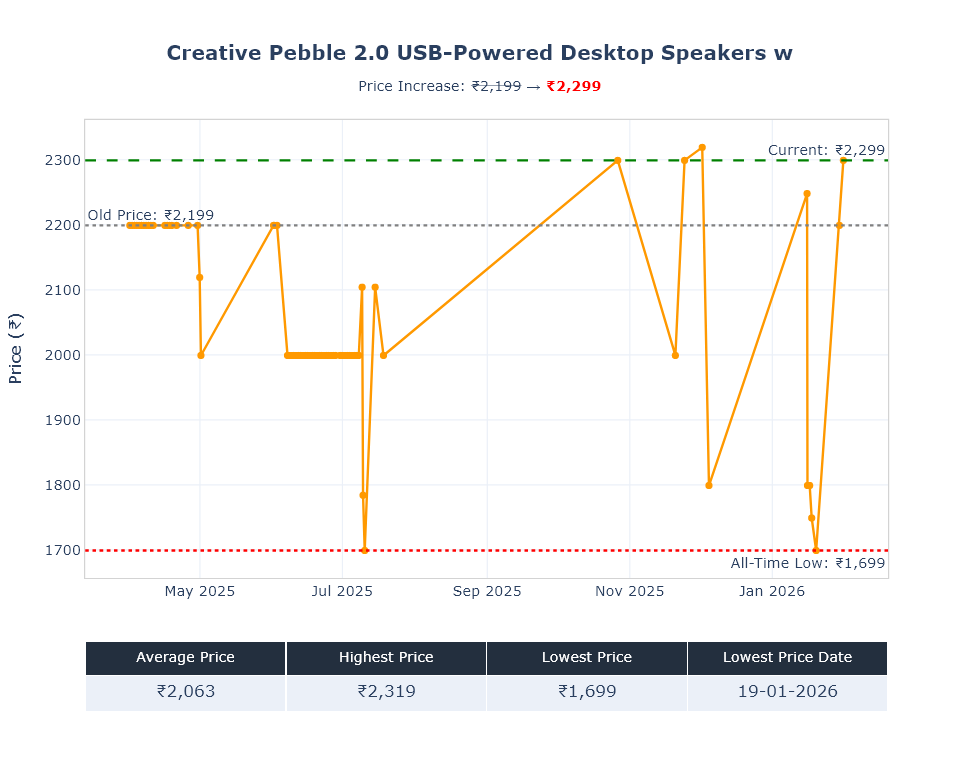
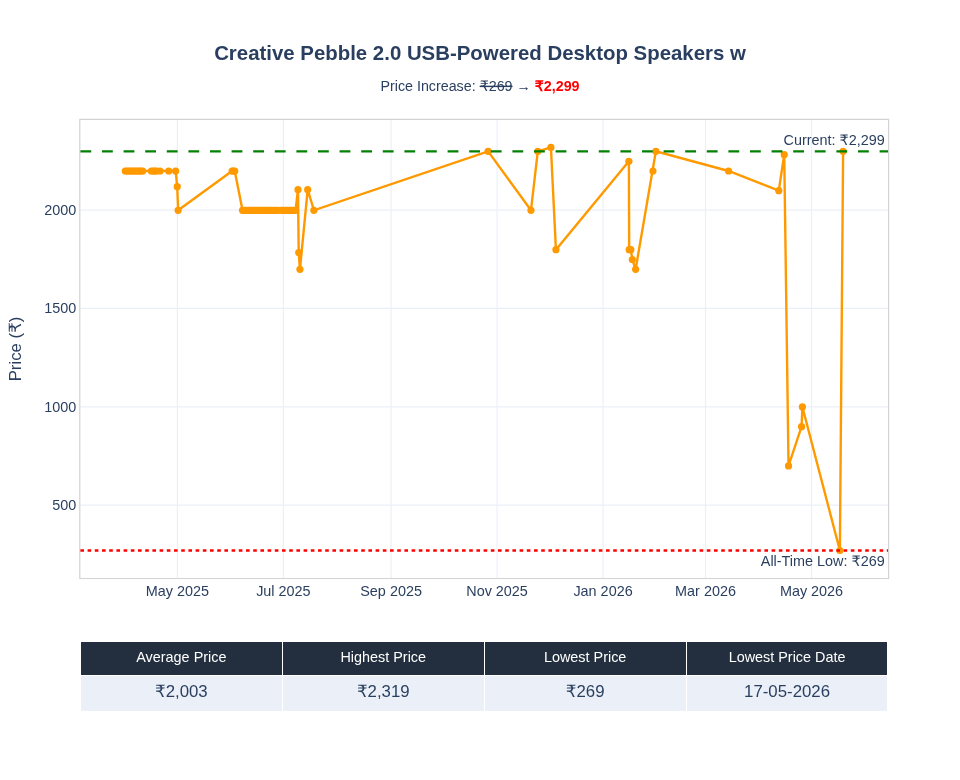
built a cli tool, and refined insance price checker

diff --git a/amazkart.py b/amazkart.py
@@ -1,0 +1,199 @@
+import sys
+import os
+import re
+import argparse
+import validators
+from price_tracker import load_products, save_products
+from config import PRODUCTS_CSV
+
+BASE_LINK = "https://www.amazon.in/dp/"
+
+def extract_asin(link):
+    if not link:
+        return None
+    pattern = r"/dp/([A-Z0-9]{10})"
+    match = re.search(pattern, link)
+    if match:
+        return match.group(1)
+    
+    pattern_gp = r"/gp/product/([A-Z0-9]{10})"
+    match_gp = re.search(pattern_gp, link)
+    if match_gp:
+        return match_gp.group(1)
+    
+    return None
+
+def list_products():
+    products = load_products()
+    if not products:
+        print("\n[!] No products found in products.csv")
+        return
+
+    print(f"\n{'Index':<5} {'Name':<50} {'Price':<10} {'Status':<15} {'ASIN':<15}")
+    print("-" * 105)
+    for i, p in enumerate(products):
+        name = p.get('name', '')
+        if not name:
+            name = "Unnamed Product"
+        
+        if len(name) > 47:
+            name = name[:47] + "..."
+        
+        link = p.get('link', '')
+        asin = extract_asin(link) or "N/A"
+        print(f"{i:<5} {name:<50} {p.get('price', ''):<10} {p.get('status', ''):<15} {asin:<15}")
+    print("-" * 105)
+
+def add_product(link, name=None):
+    if not link:
+        print("Error: No link provided.")
+        return False
+        
+    asin = extract_asin(link)
+    if not asin:
+        print(f"Error: Could not extract ASIN from {link}")
+        return False
+
+    products = load_products()
+    
+    # Check if already exists
+    full_link = f"{BASE_LINK}{asin}"
+    for p in products:
+        if asin in p.get('link', ''):
+            print(f"Product {asin} already exists.")
+            return False
+
+    new_product = {
+        "name": name if name else "",
+        "price": "0",
+        "status": "",
+        "important": "",
+        "link": full_link
+    }
+    products.append(new_product)
+    save_products(products)
+    print(f"Successfully added: {asin}")
+    return True
+
+def remove_product(identifier):
+    products = load_products()
+    if not products:
+        print("No products to remove.")
+        return False
+
+    removed = False
+    # Try as index
+    try:
+        index = int(identifier)
+        if 0 <= index < len(products):
+            p = products.pop(index)
+            removed = True
+            print(f"Removed product: {p.get('name', 'N/A')} ({extract_asin(p.get('link', ''))})")
+    except ValueError:
+        # Try as ASIN
+        new_products = []
+        for p in products:
+            if identifier in p.get('link', ''):
+                print(f"Removed product: {p.get('name', 'N/A')} ({identifier})")
+                removed = True
+            else:
+                new_products.append(p)
+        products = new_products
+
+    if removed:
+        save_products(products)
+    else:
+        print(f"Could not find product with index or ASIN: {identifier}")
+    return removed
+
+def print_help():
+    print("\nAvailable Commands:")
+    print("  list          - Show all products")
+    print("  add [url]     - Add a new product (prompts for URL if not provided)")
+    print("  remove [id]   - Remove product by Index or ASIN")
+    print("  help          - Show this help message")
+    print("  exit / quit   - Close the tool")
+
+def interactive_mode():
+    print("\n" + "="*30)
+    print("   AMAZKART PRODUCT MANAGER")
+    print("="*30)
+    list_products()
+    print_help()
+    
+    while True:
+        try:
+            line = input("\namazkart > ").strip()
+            if not line:
+                continue
+                
+            parts = line.split()
+            cmd = parts[0].lower()
+            args = parts[1:]
+
+            if cmd in ['exit', 'quit']:
+                print("Exiting...")
+                break
+            
+            elif cmd == 'list':
+                list_products()
+            
+            elif cmd == 'help':
+                print_help()
+            
+            elif cmd == 'add':
+                if args:
+                    add_product(args[0])
+                else:
+                    url = input("Enter product URL: ").strip()
+                    if url:
+                        add_product(url)
+            
+            elif cmd == 'remove':
+                if args:
+                    remove_product(args[0])
+                else:
+                    val = input("Enter index or ASIN to remove: ").strip()
+                    if val:
+                        remove_product(val)
+            
+            else:
+                print(f"Unknown command: '{cmd}'. Type 'help' for a list of commands.")
+                
+        except KeyboardInterrupt:
+            print("\nUse 'exit' to quit.")
+        except EOFError:
+            break
+
+def main():
+    if len(sys.argv) > 1:
+        parser = argparse.ArgumentParser(description="Amazkart CLI Tool")
+        subparsers = parser.add_subparsers(dest="command")
+
+        # List command
+        subparsers.add_parser("list", help="List all products")
+
+        # Add command
+        add_parser = subparsers.add_parser("add", help="Add a new product")
+        add_parser.add_argument("link", nargs="?", help="Amazon product link")
+        add_parser.add_argument("--name", help="Optional name for the product")
+
+        # Remove command
+        remove_parser = subparsers.add_parser("remove", help="Remove a product by index or ASIN")
+        remove_parser.add_argument("id", help="Index or ASIN of the product to remove")
+
+        args = parser.parse_args()
+
+        if args.command == "list":
+            list_products()
+        elif args.command == "add":
+            add_product(args.link, args.name)
+        elif args.command == "remove":
+            remove_product(args.id)
+        else:
+            parser.print_help()
+    else:
+        interactive_mode()
+
+if __name__ == "__main__":
+    main()

diff --git a/price_tracker.py b/price_tracker.py
@@ -1,5 +1,6 @@
 import os
 import csv
+import pandas as pd
 from datetime import datetime
 import subprocess
 from selenium import webdriver
@@ -142,14 +143,12 @@ def save_price_history(product_id, price):
         timestamp_to_use = timestamp_unchanged  # Same price, new day - use 00:00:00
 
     if save_entry:
-        # basic sanity check: ignore obvious spikes/drops relative to last_price
-        if last_price is not None:
-            # If new price is 10x higher or 10x lower than last_price, consider it invalid
-            if price > last_price * 10 or price < max(1, int(last_price * 0.1)):
-                print(
-                    f"Suspicious price for {product_id}: {price} (last: {last_price}). Skipping save."
-                )
-                return False
+        # basic sanity check: ignore obvious spikes/drops relative to history
+        if not is_sane_price(product_id, price):
+            print(
+                f"Suspicious price for {product_id}: {price}. Skipping save."
+            )
+            return False
 
         with open(history_file, "a") as f:
             f.write(f"{timestamp_to_use},{price}\n")
@@ -159,20 +158,44 @@ def save_price_history(product_id, price):
 
 def is_sane_price(product_id: str, price: int) -> bool:
     """Quick sanity check against recent history. Returns True if price looks reasonable."""
+    if price <= 0:
+        return True  # Let caller handle 0/unavailability
+        
     history_file = os.path.join(DATA_DIR, f"{product_id}.csv")
     if not os.path.exists(history_file):
         return True
+        
     try:
-        with open(history_file, "r") as f:
-            lines = f.readlines()
-            if len(lines) <= 1:
-                return True
-            last_entry = lines[-1].strip().split(",")
-            last_price = int(last_entry[1])
-            if price > last_price * 10 or price < max(1, int(last_price * 0.1)):
+        # Read the history file
+        df = pd.read_csv(history_file)
+        if df.empty:
+            return True
+            
+        # Get recent non-zero prices (last 10)
+        recent_history = df[df['price'] > 0]['price'].tail(10)
+        
+        if recent_history.empty:
+            return True
+            
+        if len(recent_history) < 3:
+            # Not enough data for median, use last known price
+            last_price = recent_history.iloc[-1]
+            # Allow anything if last price was 0 or doesn't exist (already filtered > 0)
+            if price > last_price * 10 or price < last_price * 0.1:
                 return False
             return True
-    except Exception:
+        
+        # Use median for robustness against previous errors
+        median_price = recent_history.median()
+        
+        # If new price is > 10x median or < 0.1x median, it's suspicious
+        # We use a broad threshold (10x) because Amazon prices can drop/jump significantly
+        if price > median_price * 10 or price < median_price * 0.1:
+            return False
+            
+        return True
+    except Exception as e:
+        print(f"Error in is_sane_price for {product_id}: {e}")
         return True
 
 